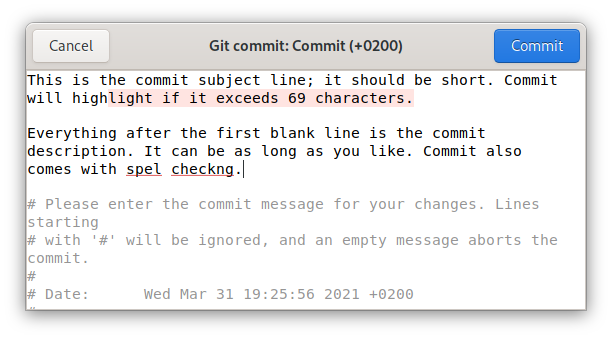
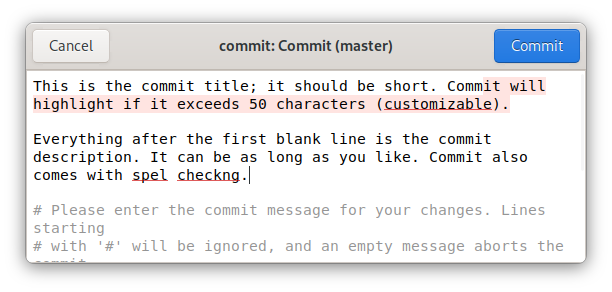
set default hint to 50 and add preferences window

diff --git a/src/editor.js b/src/editor.js
@@ -2,13 +2,9 @@ import Gtk from "gi://Gtk";
 import Gspell from "gi://Gspell";
 
 import validateCommitButton from "./validateCommitButton.js";
+import settings from "./settings.js";
 
 const HIGHLIGHT_BACKGROUND_TAG_NAME = "highlightBackground";
-
-// Keep first line line-length validation in line with
-// the original Komet behaviour for the time being.
-// (See https://github.com/zorgiepoo/Komet/releases/tag/0.1)
-const FIRST_LINE_CHARACTER_LIMIT = 69;
 
 export default function Editor({
   builder,
@@ -86,10 +82,11 @@ export default function Editor({
       endOfTextIterator,
     );
 
+    const title_length_hint = settings.get_int("title-length-hint");
     // Highlight the overflow area, if any.
-    if (firstLineLength > FIRST_LINE_CHARACTER_LIMIT) {
+    if (firstLineLength > title_length_hint) {
       const startOfOverflowIterator = buffer.get_iter_at_offset(
-        FIRST_LINE_CHARACTER_LIMIT,
+        title_length_hint,
       );
       buffer.apply_tag(
         highlightBackgroundTag,

diff --git a/src/application.js b/src/application.js
@@ -7,6 +7,7 @@ import Welcome from "./welcome.js";
 import validateCommitButton from "./validateCommitButton.js";
 import { getType, parse } from "./scm.js";
 import About from "./about.js";
+import Preferences from "./Preferences.js";
 
 const ByteArray = imports.byteArray;
 
@@ -54,6 +55,15 @@ export default function Application({ version }) {
     About({ application, version });
   });
   application.add_action(showAboutDialog);
+
+  const showPrefencesWindow = new Gio.SimpleAction({
+    name: "preferences",
+    parameter_type: null,
+  });
+  showPrefencesWindow.connect("activate", () => {
+    Preferences({ application });
+  });
+  application.add_action(showPrefencesWindow);
 
   return application;
 }

diff --git a/src/Preferences.js b/src/Preferences.js
@@ -1,0 +1,26 @@
+import Gtk from "gi://Gtk";
+import Gio from "gi://Gio";
+
+import settings from "./settings.js";
+import { relativePath } from "./util.js";
+
+export default function Preferences({ application }) {
+  const builder = Gtk.Builder.new_from_file(relativePath("./preferences.ui"));
+
+  const window = builder.get_object("window");
+  window.set_application(application);
+
+  const spinButton = builder.get_object("spinButton");
+  spinButton.set_range(50, 200);
+  spinButton.set_increments(1, 10);
+  settings.bind(
+    "title-length-hint",
+    spinButton,
+    "value",
+    Gio.SettingsBindFlags.DEFAULT,
+  );
+
+  window.show_all();
+
+  return { window };
+}

diff --git a/src/scm.js b/src/scm.js
@@ -52,7 +52,7 @@ export function getType(filename) {
   if (filename.endsWith("MERGE_MSG")) return "merge";
   if (filename.endsWith("TAG_EDITMSG")) return "tag";
   if (filename.endsWith("addp-hunk-edit.diff")) return "add -p";
-  if (filename.endsWith("rebase-merge/git-rebase-todo")) return "rebase";
+  if (filename.endsWith("git-rebase-todo")) return "rebase";
   // Mercurial
   if (filename.endsWith(".commit.hg.txt")) return "hg";
   // Unknown

diff --git a/src/settings.js b/src/settings.js
@@ -1,0 +1,6 @@
+import Gio from "gi://Gio";
+
+export default new Gio.Settings({
+  schema_id: "re.sonny.Commit",
+  path: "/re/sonny/Commit/",
+});

diff --git a/TODO.md b/TODO.md
@@ -1,13 +1,21 @@
-1. [ ] length hint should be a setting and [default to 50](https://www.reddit.com/r/gnome/comments/n4kgzi/commit_message_editor_gitmercurial/gwwcskr/?utm_source=reddit&utm_medium=web2x&context=3)
-2. [ ] cancel shouldn't save empty file if type is not recognized
-3. [ ] Commit button should say "Save" if type isn't recognize (editing a regular file) and set title to filename and disable cancel
-4. [ ] conventional commit? https://www.conventionalcommits.org/en/v1.0.0/
-5. [ ] GTK 4 - depends on https://gitlab.gnome.org/GNOME/gspell/-/issues/17
+1. [ ] cancel shouldn't save empty file if type is not recognized
+2. [ ] Commit button should say "Save" if type isn't recognize (editing a regular file) and set title to filename and disable cancel
+3. [ ] conventional commit? https://www.conventionalcommits.org/en/v1.0.0/
+4. [ ] GTK 4 - depends on https://gitlab.gnome.org/GNOME/gspell/-/issues/17
    1. [ ] undo/redo support depends on GTK 4 where GTKTextView natively supports it
    2. [ ] emoji autocomplete - gitmoji shortcuts? https://gitlab.gnome.org/GNOME/gtk/-/issues/86
-6. [ ] https://chris.beams.io/posts/git-commit/#seven-rules
+   3. [ ] rounded bottom corners in about dialog
+5. [ ] https://chris.beams.io/posts/git-commit/#seven-rules
+6. [ ] https://robertcooper.me/post/git-commit-messages
 7. [ ] Usage (README.md) in instructions? userdoc?
 8. [ ] preview commit from welcome?
 9. [ ] screenshots welcome window? screenshots emoji selector
 10. [ ] localization
-11. [ ] menu in editor window
+11. [ ] menu in editor window headerbar center
+12. [ ] find good ideas at https://github.com/zorgiepoo/Komet/releases/tag/0.1
+13. [ ] gnome circle https://gitlab.gnome.org/Teams/Circle/-/issues/83
+14. [ ] awesome-gnome
+15. [ ] https://gitlab.gnome.org/GNOME/gjs/-/blob/master/doc/Home.md
+16. [ ] max length 72 (github/gitlab wraps)
+17. [ ] tips?
+    1. [ ] ctrl + . to open emoji picker

diff --git a/README.md b/README.md
@@ -31,8 +31,8 @@ To abort and dismiss Commit, press the Cancel button or the _Escape_ key.
 
 ## Features
 
-- Highlights overflow of subject line when it exceeds 69 characters
-- Inserts blank line between subject line and description
+- Highlights overflow of title when it exceeds 50 characters (customizable)
+- Inserts blank line between title and description
 - Spell checking
 - Comments are readonly and excluded from "Select All"
 - Displays project folder and branch in window header
